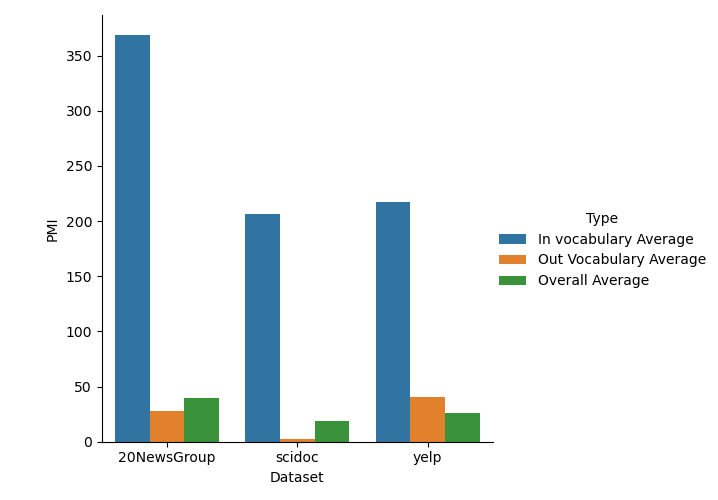
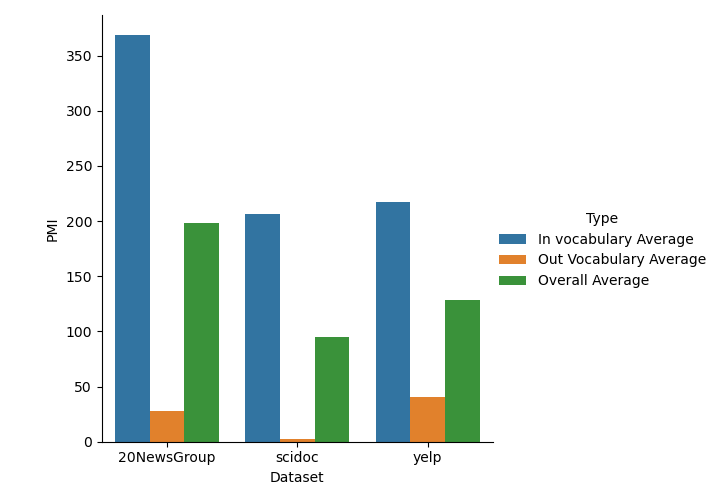
updated diagrams

Changed region(s): [[0.2451, 0.42, 0.3064, 0.81], [0.6128, 0.6, 0.6741, 0.84], [0.429, 0.66, 0.4903, 0.84]]

diff --git a/plots.py b/plots.py
@@ -134,8 +134,10 @@ def ensemble_pmi2dataframe(*datasets):
         in_vocab_pmi = sum(pmis[word] for word in in_vocab) / len(out_vocab)
         dataset_result['In vocabulary Average'] = in_vocab_pmi
         dataset_result['Out Vocabulary Average'] = out_vocab_pmi
-        dataset_result['Overall Average'] = (in_vocab_pmi +
-                                             out_vocab_pmi) / len(pmis)
+        dataset_result['Overall Average'] = (
+            sum(pmis[word]
+                for word in out_vocab) + sum(pmis[word]
+                                             for word in in_vocab)) / len(pmis)
         for key, value in dataset_result.items():
             data['Dataset'].append(dataset)
             data['Type'].append(key)
